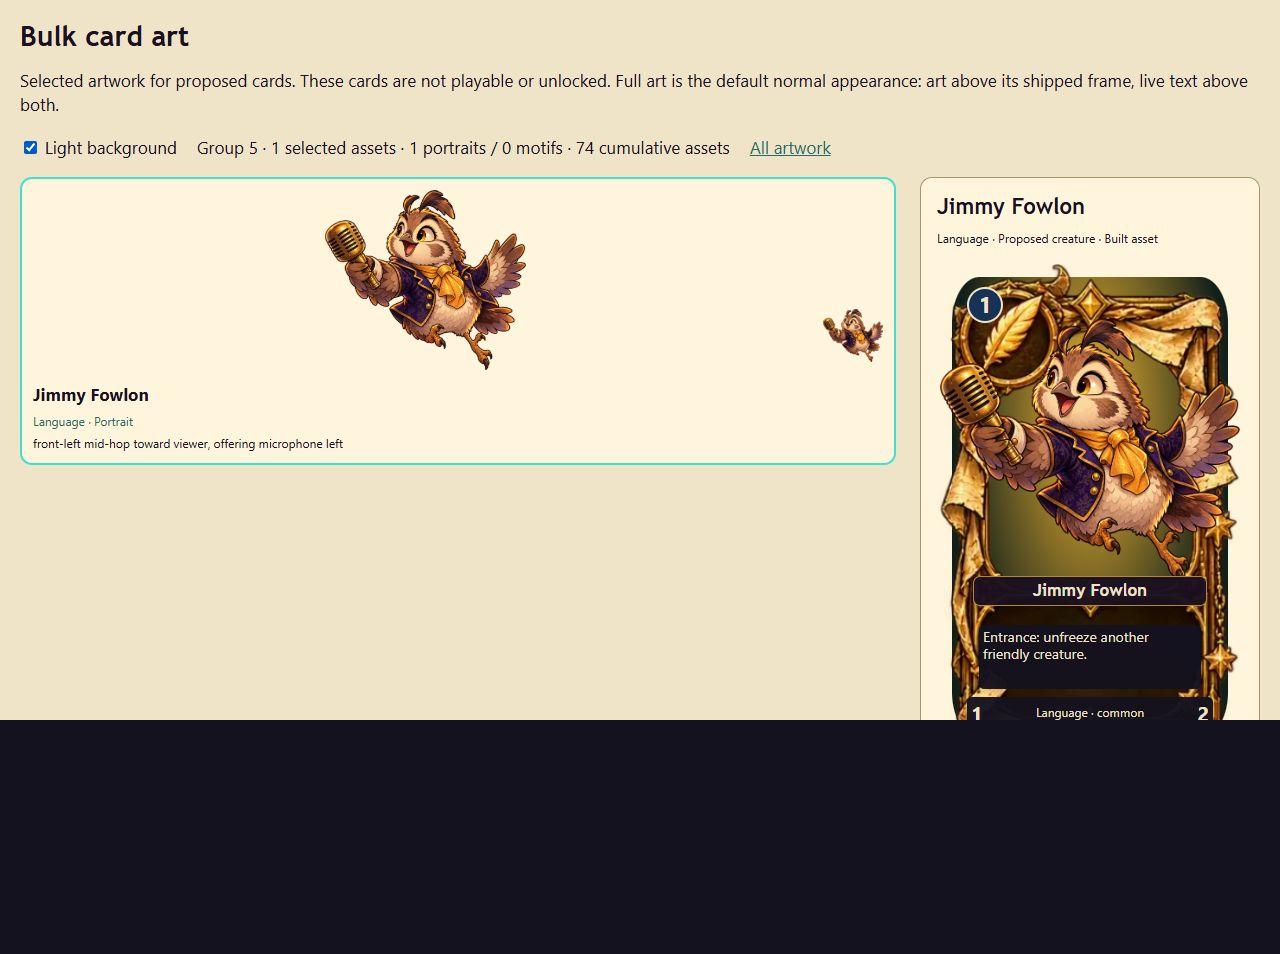
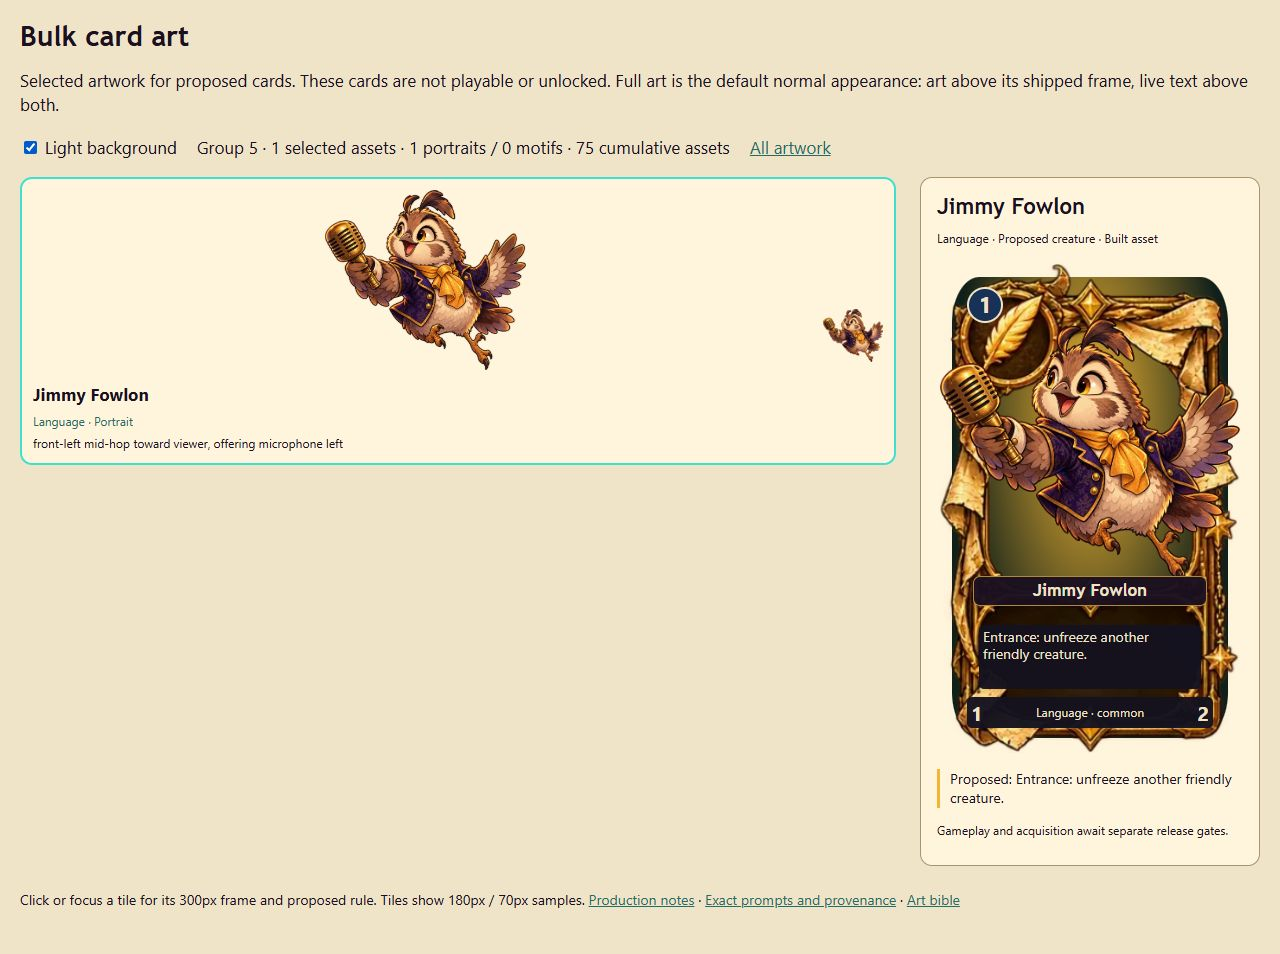
Retain incomplete Jimmy capture and certify refreshed desktop evidence (#150)

Changed region(s): [[0.0, 0.7296, 1.0, 1.0]]

diff --git a/AOK/Mathematics/Rift of Reason/design/drafts/card-arena-2026-10-12/PLANNING-CHECKPOINT.md b/AOK/Mathematics/Rift of Reason/design/drafts/card-arena-2026-10-12/PLANNING-CHECKPOINT.md
@@ -194,3 +194,5 @@ Native capture blocker filed#150: https://github.com/RktRobinhood/TOK-Materials/
 Validation completed14October: full823tests,822pass,1skip,0fail,127698.1441ms,exit0. Both draft validators passed; base comparison found only Rick changed with protected fields/counts unchanged. Source/runtime alpha and exactone-manifest-addition check passed. Generator repeat is byte-stable, including other builders’ trailing ROSTER notes. Local captures are real1280/390px DPR1; Jimmy public1280/DPR1 has all4imagesloaded/correctrule/zeroerrors. See jimmy-public.png. Independent Standards/Spec review and new Rick deployment remain pending.
 
 Capture correction: the first Rick desktop-light capture after growing the viewport was stale/corrupted despite correct DOM dimensions. It is preserved as rick-desktop-light-incomplete-original.png and is NOT acceptance evidence. Reloading the existing tab at the reset desktop viewport, then switching Light background, produced a complete visually inspected replacement rick-desktop-light.png. This is a working refresh procedure, not a universal client bug fix; preserve #150 diagnostics. No game CSS changed.
+
+The first Jimmy desktop-light full-page PNG also had an unpainted strip below the original720px viewport after resizing. That original is retained as jimmy-desktop-light-incomplete-original.png, not acceptance evidence. Navigating afresh at the reset desktop viewport produced a complete replacement; narrow/light and dark views remain valid.

diff --git a/AOK/Mathematics/Rift of Reason/design/reviews/art-recovery-2026-10-14.md b/AOK/Mathematics/Rift of Reason/design/reviews/art-recovery-2026-10-14.md
@@ -36,3 +36,5 @@ Draft validators, protected-field comparisons, alpha/manifest checks, the requir
 Validation completed14October: full823tests,822pass,1skip,0fail,127698.1441ms,exit0. Both draft validators passed; base comparison found only Rick changed with protected fields/counts unchanged. Source/runtime alpha and exactone-manifest-addition check passed. Generator repeat is byte-stable, including other builders’ trailing ROSTER notes. Local captures are real1280/390px DPR1; Jimmy public1280/DPR1 has all4imagesloaded/correctrule/zeroerrors. See jimmy-public.png. Independent Standards/Spec review and new Rick deployment remain pending.
 
 Capture correction: the first Rick desktop-light capture after growing the viewport was stale/corrupted despite correct DOM dimensions. It is preserved as rick-desktop-light-incomplete-original.png and is NOT acceptance evidence. Reloading the existing tab at the reset desktop viewport, then switching Light background, produced a complete visually inspected replacement rick-desktop-light.png. This is a working refresh procedure, not a universal client bug fix; preserve #150 diagnostics. No game CSS changed.
+
+The first Jimmy desktop-light full-page PNG also had an unpainted strip below the original720px viewport after resizing. That original is retained as jimmy-desktop-light-incomplete-original.png, not acceptance evidence. Navigating afresh at the reset desktop viewport produced a complete replacement; narrow/light and dark views remain valid.
